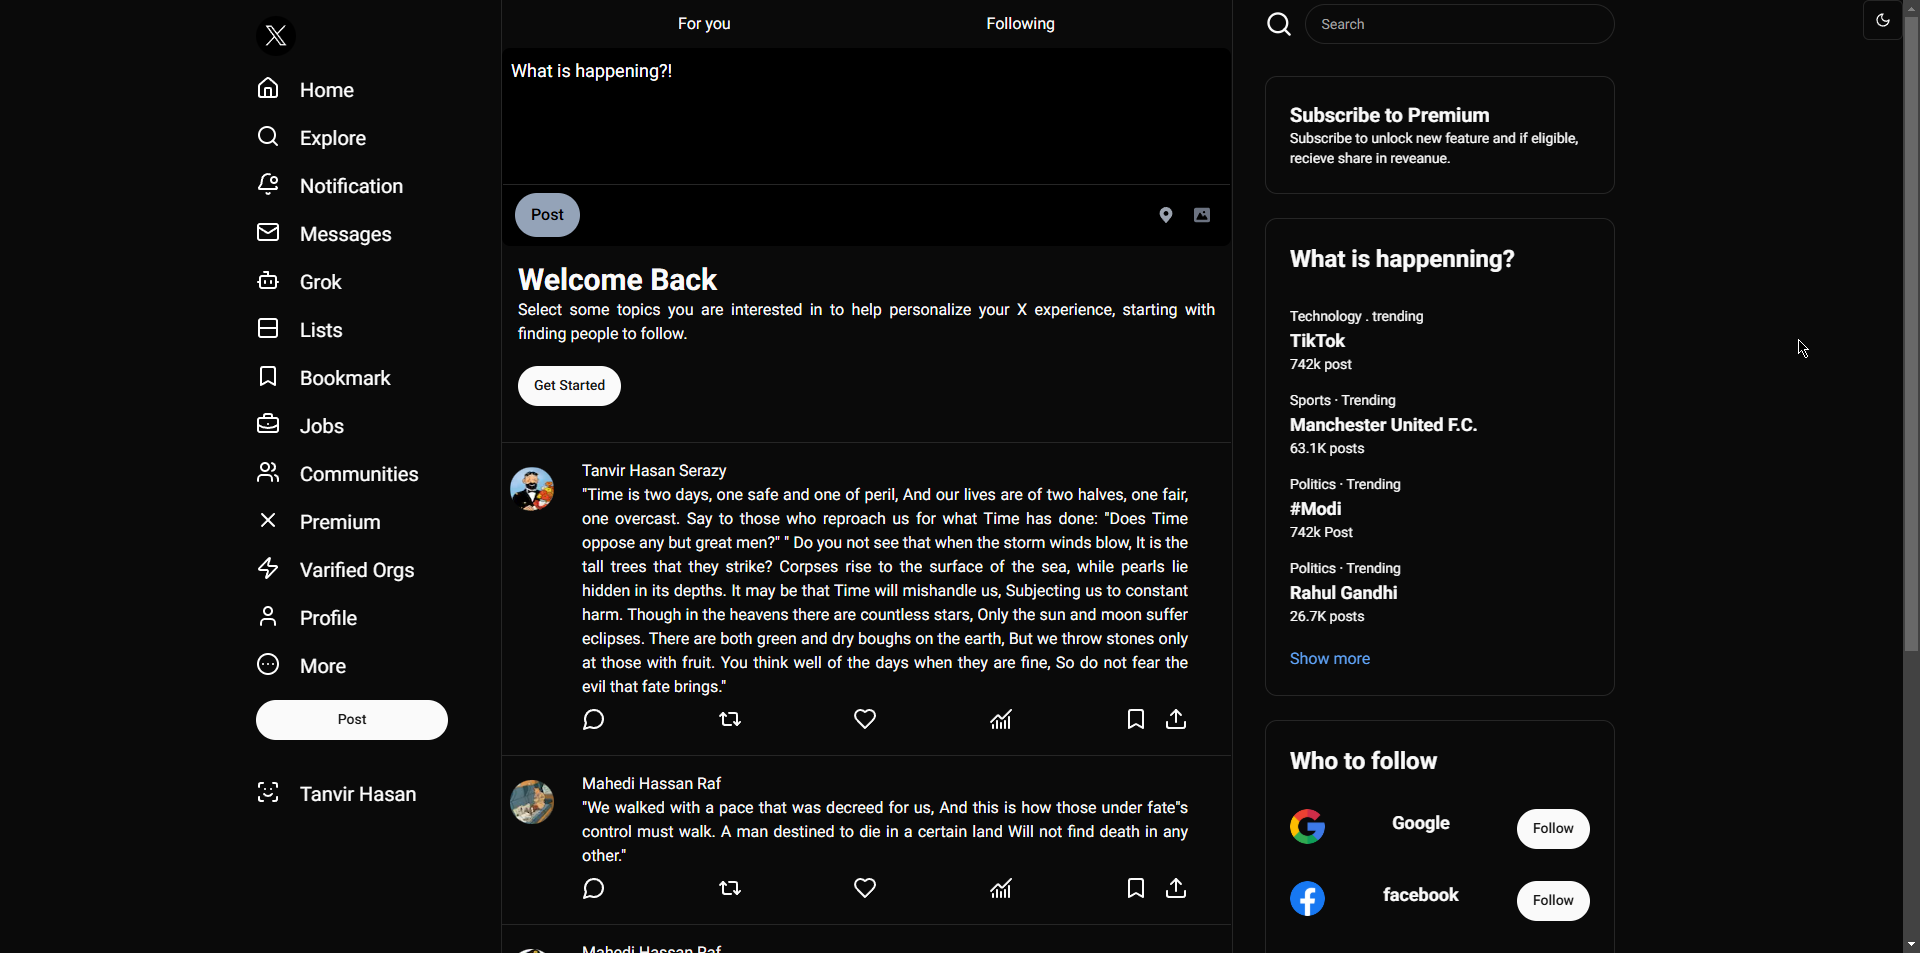
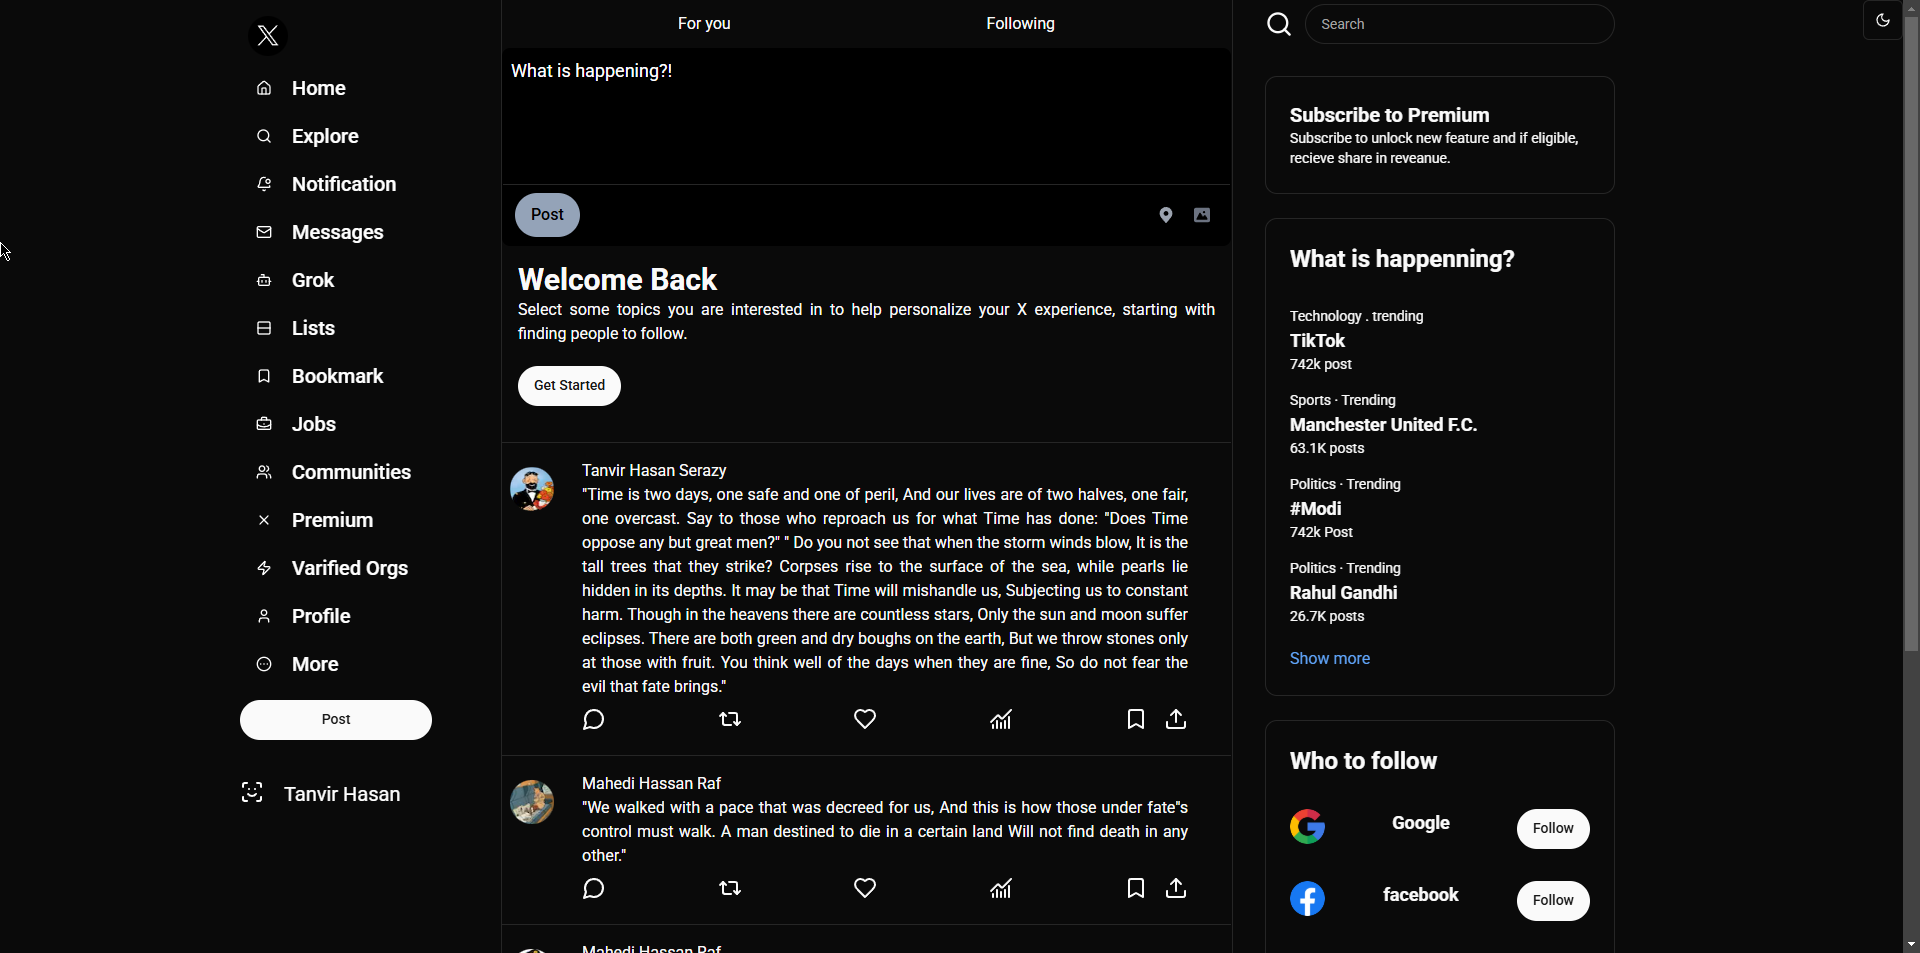
Final Push

diff --git a/frontend/src/components/LeftSidebar.jsx b/frontend/src/components/LeftSidebar.jsx
@@ -22,65 +22,105 @@ import { Button } from "./ui/button";
 const LeftSidebar = () => {
   return (
     <>
-      <div className="py-4 text-white fixed top-0 left-64">
+      <div className="py-4 text-white fixed top-0 left-60">
         <Image
           priority
           src={twitterIcon1}
           alt="Follow us on Twitter"
-          className="h-[40px] w-[40px] rounded-full"
+          className="h-[40px] w-[40px] rounded-full absolute left-2"
         />
 
-        <div className="h-9 text-xl mt-5">
-          <div className="flex gap-5 text-black dark:text-white">
-            <House /> Home
-          </div>
-          <div className="my-5 flex gap-5 text-black dark:text-white">
+        <div className="h-9 text-xl mt-12">
+          <Button
+            className="flex gap-5 text-xl h-12 rounded-full  text-left"
+            variant="ghost"
+          >
+            <House />
+            Home
+          </Button>
+          <Button
+            className="flex gap-5 text-xl h-12 rounded-full  text-left"
+            variant="ghost"
+          >
             <Search /> Explore
-          </div>
-          <div className="my-5 flex gap-5 text-black dark:text-white">
+          </Button>
+          <Button
+            className="flex gap-5 text-xl h-12 rounded-full  text-left"
+            variant="ghost"
+          >
             <BellDot />
             Notification
-          </div>
-          <div className="my-5 flex gap-5 text-black dark:text-white">
+          </Button>
+          <Button
+            className="flex gap-5 text-xl h-12 rounded-full  text-left"
+            variant="ghost"
+          >
             <Mail />
             Messages
-          </div>
-          <div className="my-5 flex gap-5 text-black dark:text-white">
+          </Button>
+          <Button
+            className="flex gap-5 text-xl h-12 rounded-full  text-left"
+            variant="ghost"
+          >
             <Bot />
             Grok
-          </div>
-          <div className="my-5 flex gap-5 text-black dark:text-white">
+          </Button>
+          <Button
+            className="flex gap-5 text-xl h-12 rounded-full  text-left"
+            variant="ghost"
+          >
             <Rows2 /> Lists
-          </div>
-          <div className="my-5 flex gap-5 text-black dark:text-white">
+          </Button>
+          <Button
+            className="flex gap-5 text-xl h-12 rounded-full  text-left"
+            variant="ghost"
+          >
             <Bookmark />
             Bookmark
-          </div>
-          <div className="my-5 flex gap-5 text-black dark:text-white">
+          </Button>
+          <Button
+            className="flex gap-5 text-xl h-12 rounded-full  text-left"
+            variant="ghost"
+          >
             <BriefcaseBusiness />
             Jobs
-          </div>
-          <div className="my-5 flex gap-5 text-black dark:text-white">
+          </Button>
+          <Button
+            className="flex gap-5 text-xl h-12 rounded-full  text-left"
+            variant="ghost"
+          >
             <Users />
             Communities
-          </div>
-          <div className="my-5 flex gap-5 text-black dark:text-white">
+          </Button>
+          <Button
+            className="flex gap-5 text-xl h-12 rounded-full  text-left"
+            variant="ghost"
+          >
             <X />
             Premium
-          </div>
-          <div className="my-5 flex gap-5 text-black dark:text-white">
+          </Button>
+          <Button
+            className="flex gap-5 text-xl h-12 rounded-full  text-left"
+            variant="ghost"
+          >
             <Zap />
             Varified Orgs
-          </div>
-          <div className="my-5 flex gap-5 text-black dark:text-white">
+          </Button>
+          <Button
+            className="flex gap-5 text-xl h-12 rounded-full  text-left"
+            variant="ghost"
+          >
             <User />
             Profile
-          </div>
-          <div className="my-5 flex gap-5 text-black dark:text-white">
+          </Button>
+          <Button
+            className="flex gap-5 text-xl h-12 rounded-full  text-left"
+            variant="ghost"
+          >
             <CircleEllipsis />
             More
-          </div>
-          <Button className="w-48 rounded-3xl">Post</Button>
+          </Button>
+          <Button className="w-48 rounded-3xl mt-3">Post</Button>
           <div className="mt-10 flex gap-5">
             <ScanFace />
             Tanvir Hasan

diff --git a/frontend/src/components/FollowSystem.jsx b/frontend/src/components/FollowSystem.jsx
@@ -1,0 +1,56 @@
+import { useState } from "react";
+import axios from "axios";
+
+const FollowSystem = ({ userId }) => {
+  const [followers, setFollowers] = useState([]);
+  const [following, setFollowing] = useState([]);
+
+  const handleFollow = async (followingId) => {
+    await followUser(userId, followingId);
+    fetchFollowers(); // Refresh followers list
+  };
+
+  const handleUnfollow = async (followingId) => {
+    await unfollowUser(userId, followingId);
+    fetchFollowing(); // Refresh following list
+  };
+
+  const fetchFollowers = async () => {
+    const followersList = await getFollowers(userId);
+    setFollowers(followersList || []);
+  };
+
+  const fetchFollowing = async () => {
+    const followingList = await getFollowing(userId);
+    setFollowing(followingList || []);
+  };
+
+  return (
+    <div>
+      <h2>Follow System</h2>
+      <button onClick={fetchFollowers}>Fetch Followers</button>
+      <button onClick={fetchFollowing}>Fetch Following</button>
+
+      <h3>Followers</h3>
+      <ul>
+        {followers.map((follower) => (
+          <li key={follower.id}>{follower.name}</li>
+        ))}
+      </ul>
+
+      <h3>Following</h3>
+      <ul>
+        {following.map((follow) => (
+          <li key={follow.id}>
+            {follow.name}{" "}
+            <button onClick={() => handleUnfollow(follow.id)}>Unfollow</button>
+          </li>
+        ))}
+      </ul>
+
+      <button onClick={() => handleFollow(2)}>Follow User 2</button>
+    </div>
+  );
+};
+
+export default FollowSystem;
